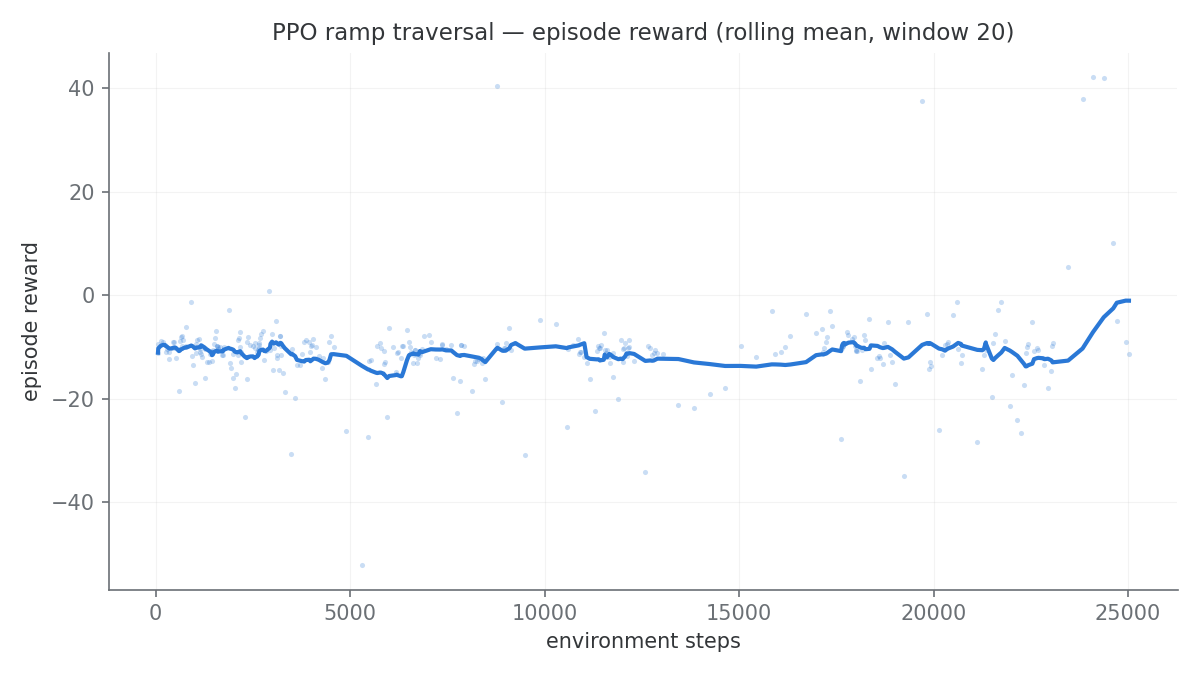
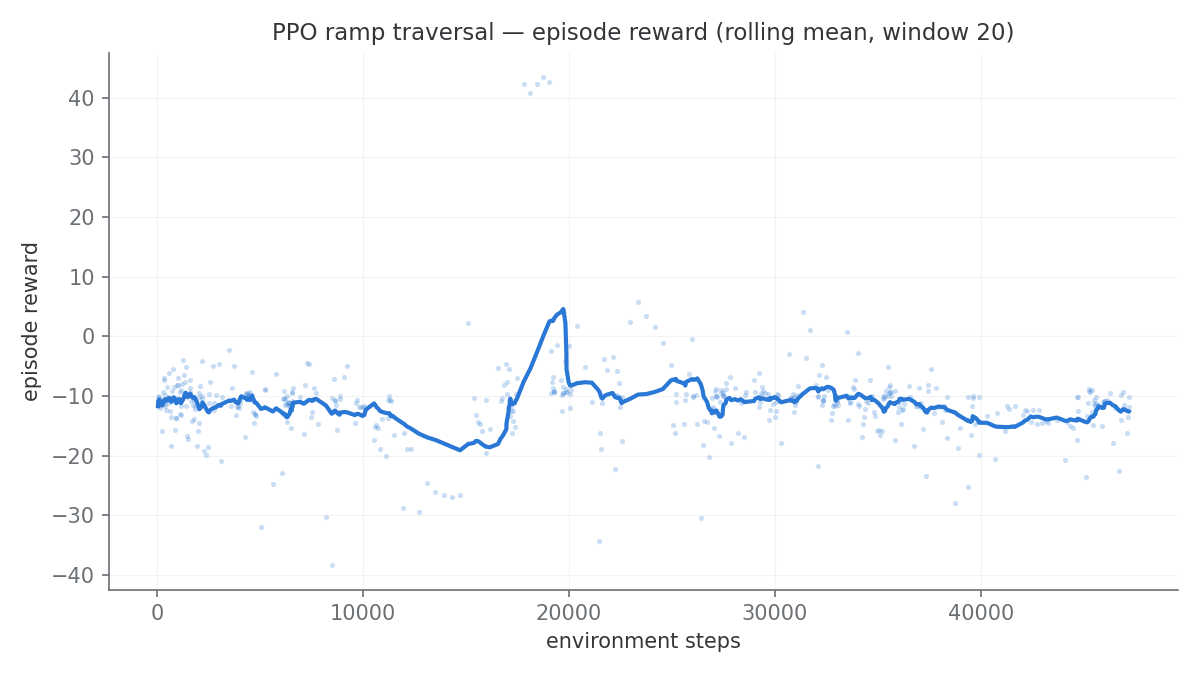
RL: honest 47k-step results — curve, 0/10 evaluation, revised docs
The 50k run was interrupted twice by session restarts; the usable
artifact is the 25k checkpoint plus Monitor CSVs covering 47204 env
steps across 528 episodes (first run trimmed at the checkpoint
boundary, then the resumed run appended).

What the data actually says: PPO has not solved ramp traversal. The
rolling mean stays between -11 and -13 apart from a transient
excursion near 18-20k steps where a few episodes reach the goal
(+40) before the policy loses it. Deterministic evaluation of the
25k checkpoint is 0/10 - zero tip-overs, ten timeouts.

Replaces the previous README claim that the policy "starts reaching
the goal" at the end of the 25k run; with more data that looks like
a transient, not a trend. Layer 5 is now marked infra-complete /
policy-unsolved, and FUTURE_WORK item 9 spells out the compute gap
and the concrete options for closing it.

evaluate.py and plot_curve.py are both now verified end-to-end
against a real model and real CSVs. verify_sim.py: all 7 topics
pass. 27 tests green.

diff --git a/README.md b/README.md
@@ -303,11 +303,27 @@ for the run and restores it afterwards) transparently speeds up training.
 
 ![PPO learning curve](docs/images/ppo_learning_curve.png)
 
-A 25k-step baseline run (345 episodes): rewards are tip-over-dominated
-(≈ −11) for most of the run, and in the final ~2k steps the policy starts
-reaching the goal region — several +40 episodes and the rolling mean
-climbing to ≈ −1. Clearly under-trained; a longer run with domain
-randomization is the obvious next step (see FUTURE_WORK).
+**47k steps, 528 episodes** (one run, checkpoint-resumed at 25k). The
+honest read: PPO has **not** solved this task yet. The rolling mean sits
+between −11 and −13 for essentially the whole run. Around 18–20k steps a
+handful of episodes do reach the goal region (+40 returns, rolling mean
+briefly touching +4), but the policy does not hold onto that behaviour
+and settles back. Deterministic evaluation of the 25k checkpoint scores
+**0/10** — no tip-overs, but ten timeouts:
+
+```
+$ python3 -m coco_rl.evaluate ppo50k_25000_steps.zip --episodes 10 --fast
+episode  1: timeout return   -8.50  steps 400
+...
+success rate: 0/10 (0%)  tipped: 0  timeout: 10
+```
+
+So what is finished is the **infrastructure**, not the policy: the env,
+ground-truth reward path, sim-time stepping, fast physics, checkpoint /
+resume, domain randomization, deterministic evaluation and curve plotting
+all work end-to-end and are unit-tested. What is missing is compute —
+47k steps is roughly an order of magnitude short for this task on a
+CPU-bound simulator (~1–8 env steps/s here). See FUTURE_WORK item 9.
 
 ---
 
@@ -319,7 +335,7 @@ randomization is the obvious next step (see FUTURE_WORK).
 | 2 | ✅ | Lidar + RGBD camera, slam_toolbox mapping, Nav2 autonomous navigation |
 | 3 | ✅ | MoveIt2 arm planning + collision-checked pick-and-place |
 | 4 | ✅ | Browser control panel (rosbridge + roslibjs + web_video_server) |
-| 5 | ✅ | RL: Gymnasium env + PPO with ground-truth rewards and fast physics; 25k-step baseline trained (learning curve in docs/images) |
+| 5 | ✅ infra / ⚠ policy | RL: Gymnasium env + PPO with ground-truth rewards, fast physics, resume, randomization, deterministic eval — all verified. 47k-step baseline does **not** yet solve ramp traversal (0/10 eval); needs more compute, not more plumbing |
 
 ## Images
 

diff --git a/docs/FUTURE_WORK.md b/docs/FUTURE_WORK.md
@@ -44,11 +44,24 @@ Honest list of what's not done or not perfect, in rough priority order.
 
 ## RL
 
-9. **Train longer + domain randomization.** The PPO baseline trains and
-   the learning curve is saved, but a policy that reliably climbs the
-   ramp from arbitrary approach angles needs more steps plus
-   randomized spawn yaw/friction. All the plumbing (fast physics,
-   ground-truth rewards, Monitor CSV, checkpoints) is in place.
+9. **The RL policy is unsolved — this is the biggest open item.**
+   47k steps / 528 episodes trained; the rolling-mean return never
+   escapes the −11…−13 band except for a transient excursion around
+   18–20k steps, and deterministic evaluation of the 25k checkpoint is
+   **0/10 successes** (0 tips, 10 timeouts — the robot survives, it just
+   doesn't get up the ramp). All the plumbing is done and verified
+   (fast physics, ground-truth rewards, Monitor CSV, checkpoints,
+   `--resume`, `--randomize`, `evaluate.py`, `plot_curve.py`); what is
+   missing is compute. On this machine the sim runs ~1–8 env steps/s,
+   so a 500k-step run is 1–5 days of wall clock. Realistic paths:
+   (a) vectorize across several headless gz instances, (b) rent a
+   GPU/many-core box for one long run, (c) shape the reward more
+   densely (current one is progress − tilt; a heading term and a
+   ramp-contact bonus would likely help), or (d) shorten the episode
+   horizon so credit assignment is easier. Two training runs were also
+   lost to session interruptions before saving a final model — long runs
+   need `nohup` + a checkpoint interval well under the run length
+   (checkpoints every 25k saved the usable model here).
 10. **Vision-free observations**: the policy sees pose/velocity/tilt
     only. Adding the depth camera or lidar would let it generalize to
     unseen ramp placements.
